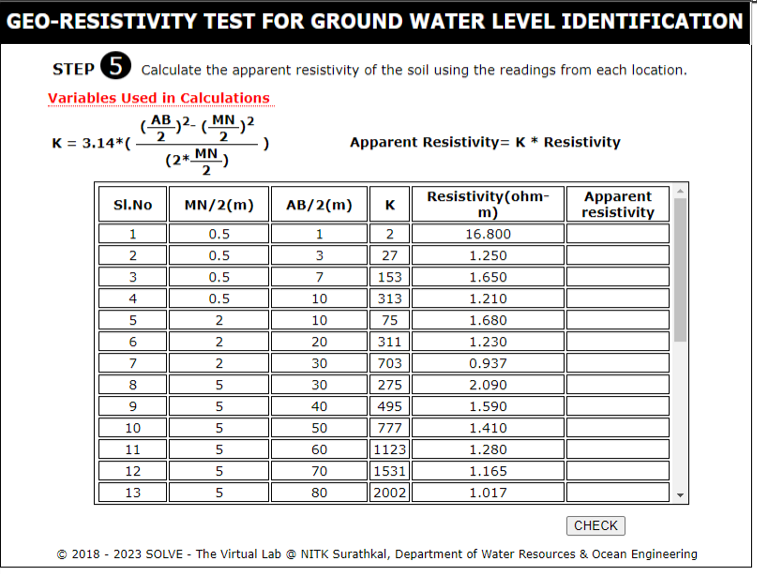
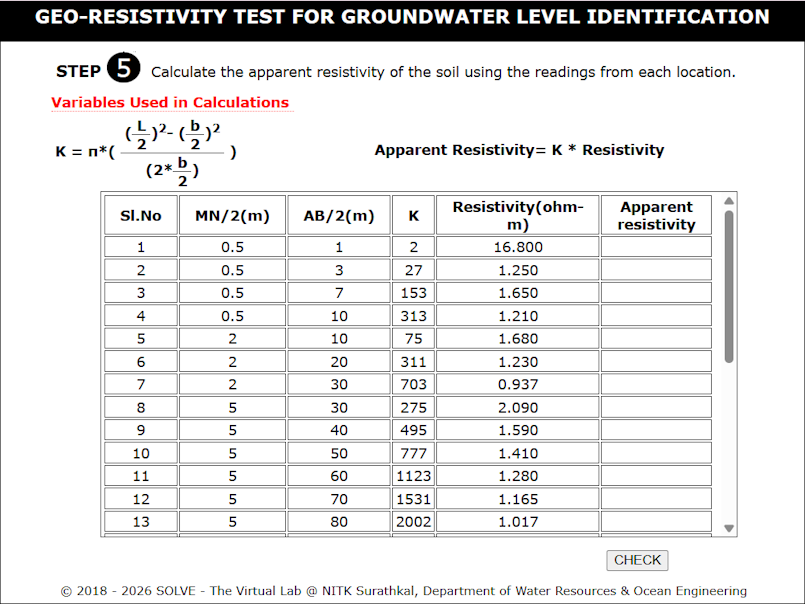
Add files via upload

Changed region(s): [[0.0, 0.0, 1.0, 1.0], [0.4557, 0.2369, 0.8203, 0.2666]]

diff --git a/experiment/theory.md b/experiment/theory.md
@@ -1,21 +1,39 @@
-### Theory
+### INTRODUCTION
 
-The electrical resistivity method is a technique used to assess the apparent resistivity of soils and rocks as a function of electrode depth or position. Soil resistivity is influenced by factors such as porosity, permeability, ionic content in pore fluids, and clay mineralization.
+<p style="text-indent:50px; text-align: justify;">The electrical resistivity method is a geophysical technique used to determine the apparent resistivity of soils and rocks as a function of electrode depth or position. Soil resistivity is influenced by several factors, including porosity, permeability, ionic content of pore fluids, and the presence of clay minerals.</p>
 
-In hydrogeological and environmental investigations, the most commonly employed electrical method is the Vertical Electrical Sounding (VES) or resistivity sounding. During resistivity surveys, a pair of current electrodes is placed at a specific distance from each other, and the potential difference is measured between another pair of potential electrodes. These electrode pairs are typically arranged in a linear configuration. Common electrode array configurations include dipole-dipole, pole-pole, Schlumberger, and Wenner arrays.
+<p style="text-indent:50px; text-align: justify;">In hydrogeological and environmental investigations, the most commonly used electrical method is Vertical Electrical Sounding (VES), also known as resistivity sounding. In this method, a pair of current electrodes is placed at a specified distance apart, and the potential difference is measured between another pair of potential electrodes. These electrodes are generally arranged in a linear configuration. Common electrode array configurations include dipole–dipole, pole–pole, Schlumberger, and Wenner arrays.</p>
 
-The apparent resistivity represents the average resistivity of all the soils and rocks affecting the electric current. It is calculated by dividing the measured potential difference by the input current and then multiplying it by a geometric factor specific to the chosen electrode array and spacing. The Schlumberger array is a geotechnical investigation method which determines the electrical resistivity of the soil.  
+<p style="text-indent:50px; text-align: justify;">The apparent resistivity represents the average resistivity of all soils and rocks influencing the flow of electric current. It is determined by dividing the measured potential difference by the applied current and multiplying the result by a geometric factor that depends on the electrode arrangement and spacing.</p>
 
-The Schlumberger array is a geotechnical investigation method which determines the electrical resistivity of the soil. This is similar to the Wenner probe test, but it uses multiple current electrodes rather than just two. This allows for a more detailed and accurate measurement of soil resistivity.
-
-The Schlumberger arrangement has the potential electrodes close together. The apparent resistivity is  calculated by  
-
-![Alt text](images/CodeCogsEqn.png)
+<p style="text-indent:50px; text-align: justify;">The Schlumberger array is a widely used geotechnical investigation method for determining the electrical resistivity of soil. It is similar to the Wenner method but provides more detailed and accurate measurements due to its electrode configuration. In this arrangement, the potential electrodes are placed relatively close together, while the current electrodes are positioned farther apart.</p>
 
 
+<p style="text-indent:50px; text-align: justify;">The Schlumberger array is one of the most common electrode configurations used in vertical electrical sounding (VES). The equation for apparent resistivity (𝝆a) is derived from the potential difference between two inner electrodes (M and N) caused by the current injected through two outer electrodes (A and B).</p>
 
-When apparent resistivity is plotted against the electrode spacing  Schlumberger for various spacing one location, a smooth curve can be drawn through the points.
-The interpretation of such a resistivity-spacing curve in terms of subsurface conditions is a complex and frequently difficult problem. The solution can be obtained two parts.
-i. Interpretation in terms of various layers of actual resistivity and their depths. 
-ii. Interpretation of the actual resistivities in terms of subsurface geologic and ground
-water conditions. 
+##### The Standard Equation
+<p style="text-align: justify;">The general formula for apparent resistivity is:</p>
+
+<center><img src="images/eqn1.png"/></center>
+
+<p style=" text-align: justify;">For the Schlumberger configuration, the geometric factor (K) is defined by the spacing of the electrodes:</p>
+
+<center><img src="images/eqn2.png"/></center>
+
+Where,<br>
+L=The distance between the current electrodes (AB)</br>
+b=The distance between the potential electrodes (MN)</br>
+V=The voltage difference between the potential electrodes</br>
+I=The applied  current.</br>
+
+#### Interpretation of Resistivity Sounding Data
+
+<p style="text-align: justify;">When apparent resistivity is plotted against electrode spacing (Schlumberger configuration) for various spacings at a single location, a smooth curve can be drawn through the plotted points.</p>
+
+<p style="text-align: justify;">The interpretation of such a resistivity–spacing curve in terms of subsurface conditions is a complex and often challenging task. <br>
+The solution is generally approached in two stages:</p>
+
+1. Interpretation in terms of subsurface layers
+    - Determination of the true resistivities of different layers and their corresponding depths.
+2. Geological and hydrogeological interpretation
+    - Interpretation of the obtained resistivity values in terms of subsurface geological formations and groundwater conditions.

diff --git a/experiment/contributors.md b/experiment/contributors.md
@@ -10,5 +10,6 @@
 | :--: | :-- | :-------: |
 |  1   | Prajna K | NITK |
 |  2   | Dr. Vyshali | NITK |
-|  3   | Nishali M Poojari | NITK |
-|  4   | Aishwarya Hegde A  | NITK |
+|  3  | Aishwarya Hegde A  | NITK |
+|  4  | Nishali M Poojari | NITK |
+

diff --git a/experiment/aim.md b/experiment/aim.md
@@ -1,1 +1,1 @@
-Determination of Ground water Level by Using Georesistivity method
+Determination of Ground water Level through Georesistivity method
